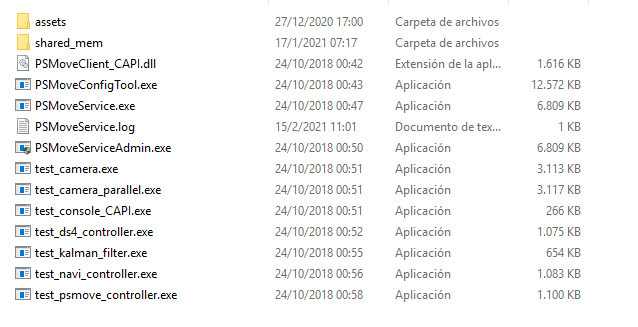
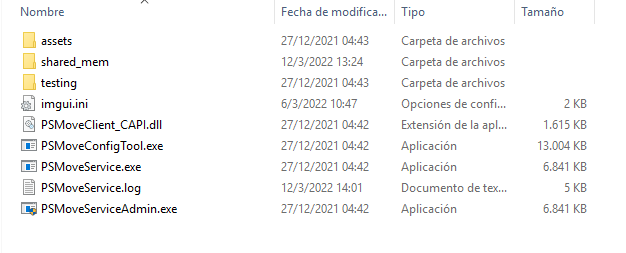
Docs update

diff --git a/docs/Tracking.md b/docs/Tracking.md
@@ -11,7 +11,7 @@ This type of tracking has the advantage of being reasonably cheap, since the blo
 
 # What you'll need
 - [Zadig](https://zadig.akeo.ie/)
-- [PSMoveService](https://github.com/psmoveservice/PSMoveService/releases)
+- [PSMoveServiceEx](https://github.com/Timocop/PSMoveServiceEx)
 - [PSMS Calibration mat](https://github.com/psmoveservice/PSMoveService/blob/master/misc/calibration/CalibrationMat.pdf), Ideally printed on letter paper, though A4 works fine too.
 - *At least* 2 Playstation Eye cameras (**NOT** EYE TOY).
 - USB extensions: you can extend up to 1.8m (6ft) (for a total of 3.6m (12ft)) with passive cables.
@@ -23,11 +23,13 @@ A single camera results in jittery tracking since you can't do triangulation on 
 
 Two cameras allow for triangulation and, *to some extent* redundancy. This is the bare minimum I'd recommend for vr.
 
-The problem is that the moment one of your blobs gets occluded your tracking will turn into a jittery mess. *This is why I recommend three cameras.*
+The problem is that the moment one of your blobs gets occluded your tracking will turn into a jittery mess. *This is why I recommend three or four cameras.*
 
 Three cameras not only allows for smoother, more accurate tracking, but it also allows for redundancy and since you only need two cameras for triangulation you can block the tracking blob for one camera entirely and still have decent tracking.
 
 More cameras would allow for more redundancy, you can hook up as many as you want, but keep in mind USB bandwith limitations and processing power overhead. 
+
+Maximum play area I'd say is about 4x4m (~13ft), any more and you'll have issues with your tracking due to the low video quality of these cameras. I'd keep the play area below 3.5x3.5m (~11x11ft).
 
 # Installing the camera drivers
 
@@ -48,11 +50,13 @@ Once it is done installing, select the next camera and repeat the process untill
 ![3](img/Tracking/DrvInstall/3.png)
 
 
-# Installing and configuring PSMS
+# Installing and configuring PSMSEx
 
-Download and install [PSMoveService-Setup64.exe](https://github.com/psmoveservice/PSMoveService/releases/download/v0.9-alpha9.0.1/PSMoveService-Setup64.exe). Navigate to "C:\Program Files\PSMoveService\bin" and you should see something like this:
+Download and extract [PSMoveServiceEx](https://github.com/Timocop/PSMoveServiceEx/releases/tag/v0.12.6). and you should see something like this:
 
 ![4](img/Tracking/PSMSInstall/1.png)
+
+Inside the "testing" folder you'll find a couple apps, the only one you'll be interested in here will be "test_camera_paralell.exe", You can open it to test all connected cameras if you have to.
 
 Open PSMoveServiceAdmin.exe and let it run for a couple of seconds for it to create all the config files, after it's done, close it and press  "windows key + R", type in "%appdata%\PSMoveService" (without quotation marks) and press Enter.
 
@@ -83,7 +87,12 @@ After clicking Controller Settings you should see both of your virtual controlle
 
 If you click on HMD Settings on the main menu you should also see your virtual HMD. Select the correct tracking colour here too.
 
-You can also see if your Camera drivers are correctly installed by clicking on  "Tracker Settings" and checking to see if all your trackers are in there.
+You can also see if your Camera drivers are correctly installed by clicking on  "Tracker Settings" and checking to see if all your trackers (cameras) are in there.
+
+Back to the main menu you'll also find a menu called "Advanced settings". Here you can change some of the advanced tracker settings, the defaults are good but you might want to set "Controller position smoothing" and "Controller position prediction" to 0.2 for smoother results. 
+The other important setting under tracker manager config is the "Ignore pose from one tracker", which should always remain enabled. This prevents jittery 1 camera tracking.
+
+![9](img/Tracking/PSMSInstall/5.png)
 
 # Room setup
 
@@ -94,6 +103,8 @@ The idea is to overlap the fields of view of the trackers as much as possible wh
 The ideal setup for 2 and 3 cameras on a square room would be something like this:
 
 ![8](img/Tracking/RoomSetup/1.png)
+
+if you have 4 cameras each one would go in one corner of the room.
 
 The more the cameras overlap, the more redundant your tracking will be.
 
@@ -107,7 +118,7 @@ To test what your cameras can see, make sure PSMoveService is closed and on the 
 
 * ⚠ Try to avoid bright sunlight while playing since this makes it harder for the cameras to see the tracking blobs reliably.
 
-* ⚠ Your play area should *ideally* only be lit by a ceiling light, this ensures that the blob colours look the same anywhere in the room.
+* ⚠ Lighting should be easy to reproduce from the time you've done the color calibration, which means you should only light your area by a ceilling light and without much external light (sunlight, etc) to ensure that the blob colours look the same anywhere in the room, any time (night time, day time).
 
 * ⚠ Cover or turn off lights that are the same colour as your tracking blobs, these confuse the tracking *badly* and you'll see them during controller calibration (RGB Keyboards, etc).
 

diff --git a/docs/Headset.md b/docs/Headset.md
@@ -1,7 +1,7 @@
 # Headset
 The headset will not only be in charge of showing you the image and relaying back rotation data from it's internal IMU, but it will also be in charge of receiving the RF Controller data and sending it back to the computer. Another thing that can be integrated into the headset is an USB Sound Card, that way it'll also have an integrated Microphone and a headphone jack for you to plug your headphones in. Though it's not mandatory.
 
-I plan on eventually making a custom pcb for the headset that includes a 2 port USB hub, an audio interface for headphones and microphone integration, an STM32 as the main microcontroller and maybe a couple other goodies like an attempt at backlight strobing to reduce screen blur.
+I plan on eventually making a custom pcb for the headset that includes a 2 port USB hub, an audio interface for headphones and microphone integration, and maybe a couple other goodies like an attempt at backlight strobing to reduce screen blur.
 
 # Hardware Needed
 
@@ -51,8 +51,17 @@ There's a couple different versions of these blue driver boards, the most common
 
 Some screen options are:
 
-### LS055R1SX04 or LS055R1SX03
-These screens are 1440x2560(vertical), they officially support up to 60Hz but depending on the driver board they can be pushed to around 70 without artifacts (this depends on the driver board).
+### LS055R1SX04 with Green board
+With this option you'll have to purchase the [display](https://www.aliexpress.com/item/4000999801804.html) and [board](https://www.aliexpress.com/item/1005002330323719.html) separately. Make sure you choose the right display to go with the right board (LS055R1SX04 lcd won't work with LS055R1SX03 board) and make sure the display has a backlight before purchasing since these are usually used for resin 3d printers.
+
+These screens are 1440x2560(vertical), they officially support up to 60Hz but with the board linked below they can be pushed to around 72hz without artifacts.
+
+The board is meant to run the display at 60hz but it can easily do 72hz if you create a custom resolution in nvidia control panel or amd's driver settings thing.
+
+![10](img/Headset/10.png)
+
+### LS055R1SX04 or LS055R1SX03 Blue board
+These screens are 1440x2560(vertical), they officially support up to 60Hz but depending on the driver board they can be pushed to around 65hz without artifacts (this depends on the driver board).
 
 ⚠ Make sure you're getting the correct refresh rate since a lot of sellers sell these boards with a driver board that's programmed to run at only 50hz
 

diff --git a/README_ES.md b/README_ES.md
@@ -14,7 +14,7 @@ Este conjunto incluye controles que puedes crear tu mismo que son capaces de emu
 También hay hardware de personalizado como carcasas para imprimir en 3D con sus respectivos PCB para armar tus propios controles de estilo "Knuckles" y "Wand". (en este momento, los controles Knuckles estan por ser rediseñados por lo que no recomiendo hacerlos ahora mismo)
 
 El driver de SteamVR solía estar basado en [TrueOpenVR](https://github.com/TrueOpenVR) Pero ha sido modificado tanto que decidí convertirlo en un proyecto a parte.
-El driver también utiliza [PSMoveService](https://github.com/psmoveservice/PSMoveService) (al menos por ahora) para el tracking de la posición del visor y ambos controles en un espacio 3D.
+El driver también utiliza [PSMoveServiceEx](https://github.com/Timocop/PSMoveServiceEx) (al menos por ahora) para el tracking de la posición del visor y ambos controles en un espacio 3D.
 
 Para mas información en todo, recomiendo leer la [documentación.](docs/DocsIndex.md)!
 

diff --git a/README.md b/README.md
@@ -14,7 +14,7 @@ The setup includes DIY controllers that are capable of emulating HTC vive wands 
 There's also custom controller hardware like 3d printable shells (still a bit of a WIP) with their respective custom PCBs to build your own Knuckles controllers.
 
 The SteamVR driver used to be based off of [TrueOpenVR](https://github.com/TrueOpenVR) but it's modified so heavily I'm making it it's own thing.
-This driver also uses [PSMoveService](https://github.com/psmoveservice/PSMoveService) (for now at least) for the positional tracking of HMD and controllers, using ping pong balls and different colours of LED's.
+This driver also uses [PSMoveServiceEX](https://github.com/Timocop/PSMoveServiceEx) (for now at least) for the positional tracking of HMD and controllers, using ping pong balls and different colours of LED's.
 
 For more information on *everything*, check out the [docs](docs/DocsIndex.md)!
 

diff --git a/docs/Driver.md b/docs/Driver.md
@@ -23,6 +23,9 @@ The driver configuration is divided into a couple sections for tidyness, these a
 | ------  | ------ |------     |
 | HID_VID | int | The VID value of your HID device, in decimal numbers. |
 | HID_PID | int | The PID value of your HID device, in decimal numbers. |
+| PSMSTrackerFrequency | int | The maximum update rate you have set on your psmoveservice trackers.|
+| ControllerSmoothingK | float | K constant of the controller position smoothing algorithm |
+| HMDSmoothingK | float | K constant of the HMD position smoothing algorithm |
 
 ### "Display" section where you'll find:
 |Parameter|Type    |Description|
